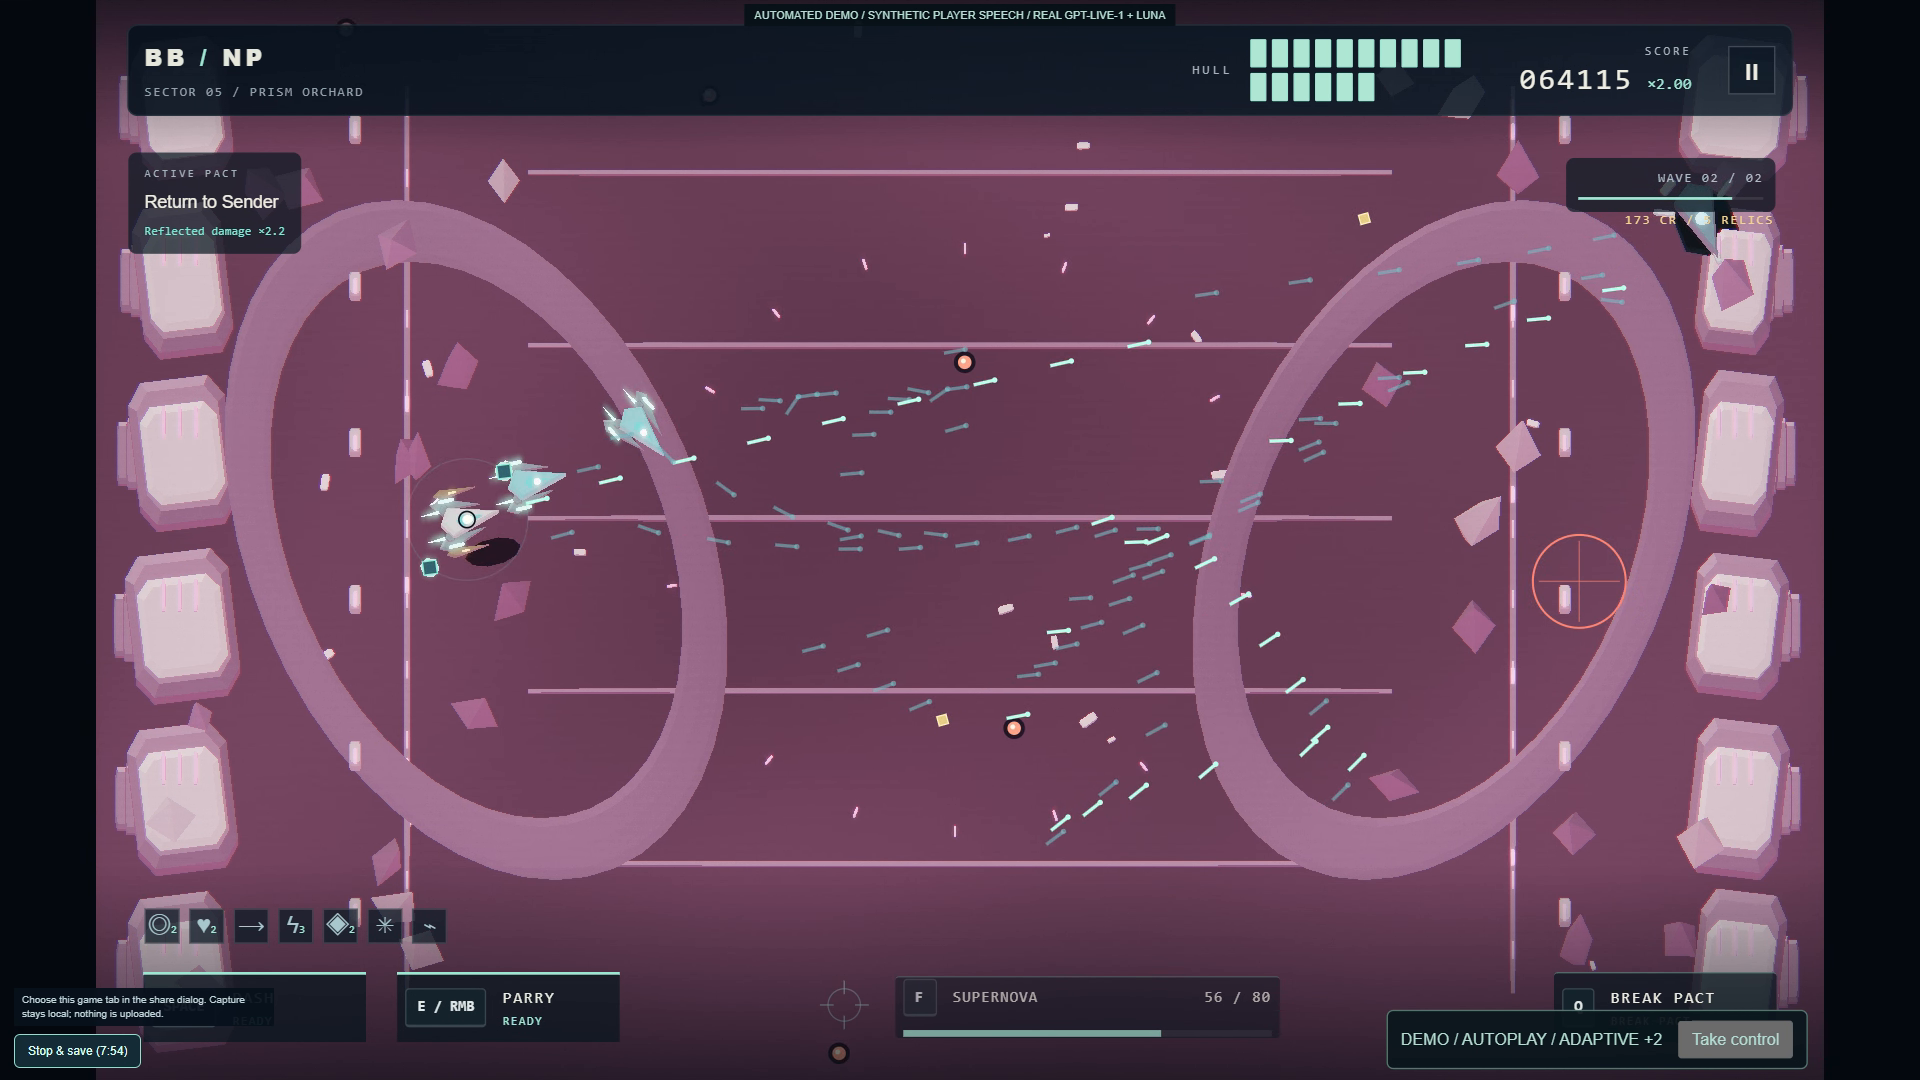
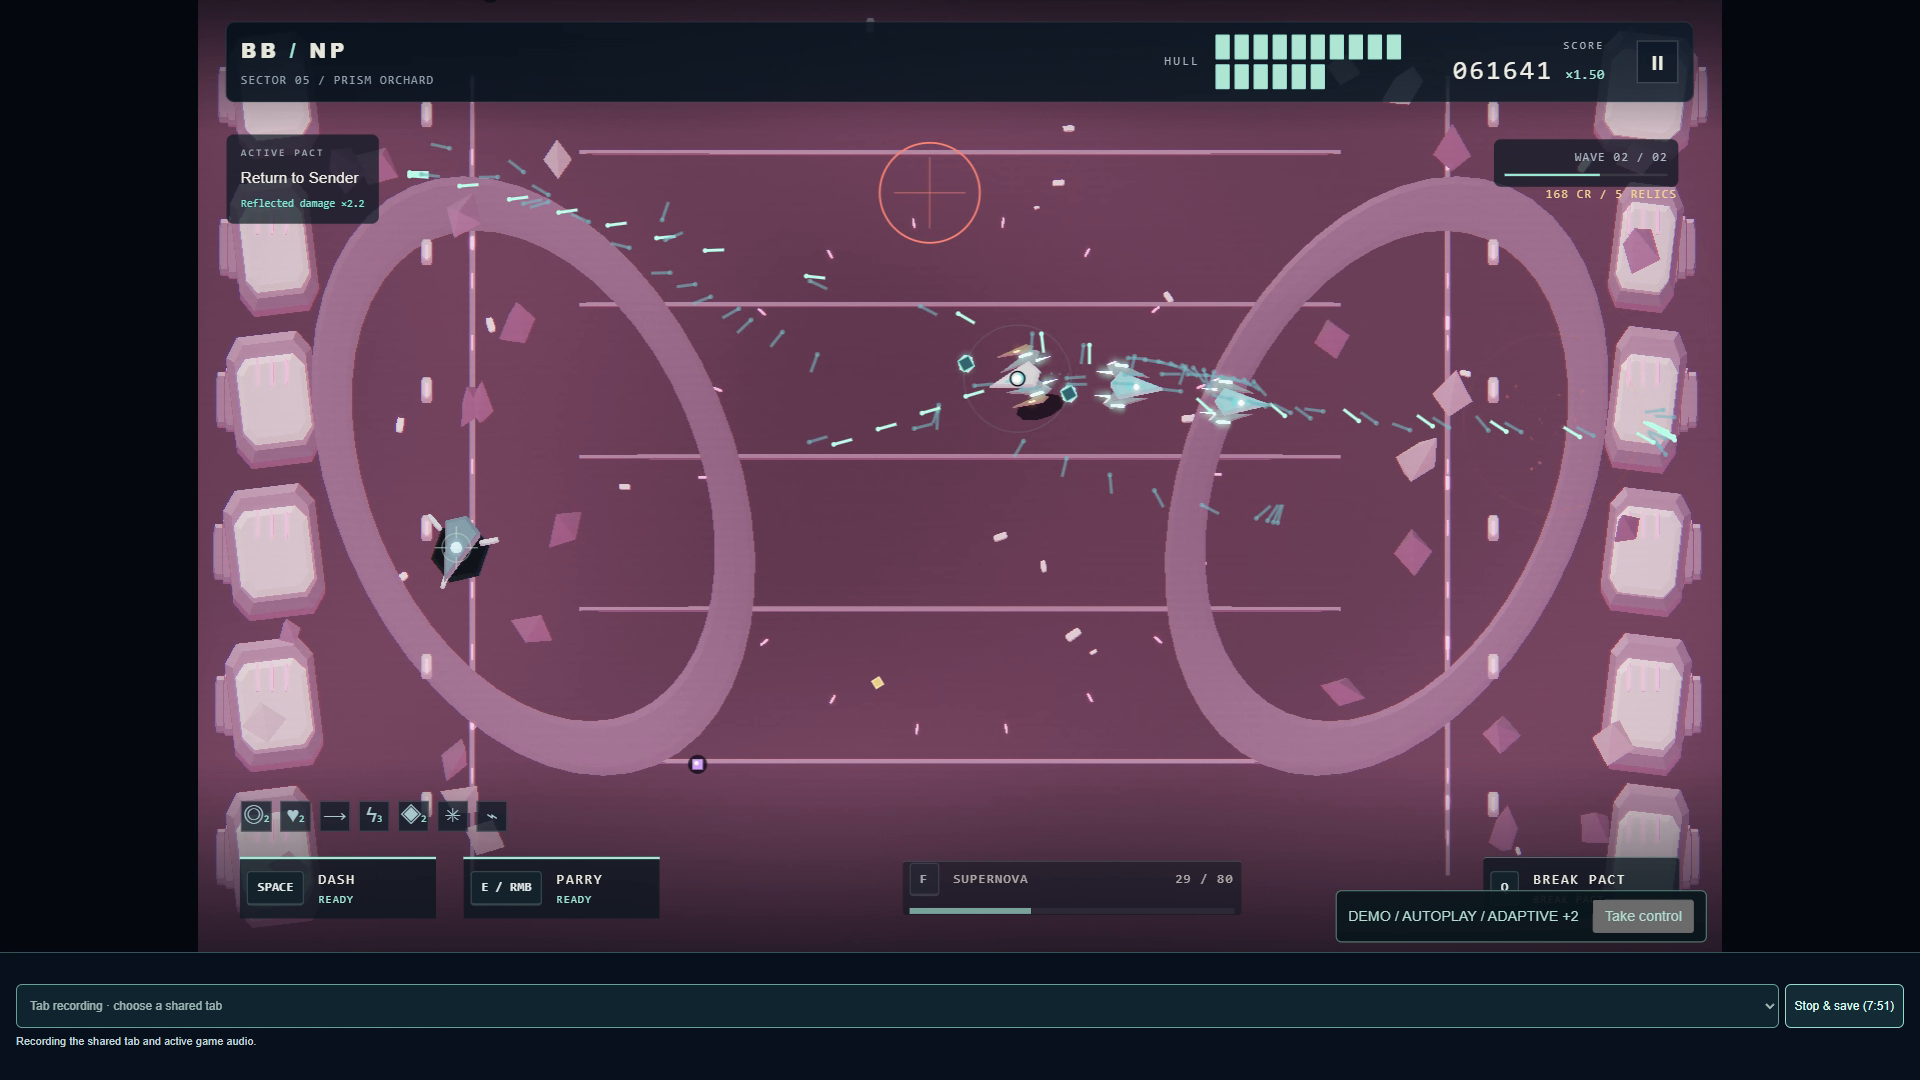
Publish latest English campaign film and refreshed screenshots

diff --git a/index.html b/index.html
@@ -5,16 +5,16 @@
   <meta name="viewport" content="width=device-width, initial-scale=1">
   <meta name="referrer" content="no-referrer">
   <meta http-equiv="Content-Security-Policy" content="default-src 'none'; media-src 'self' https://github.com https://release-assets.githubusercontent.com; style-src 'unsafe-inline'; img-src 'self'; base-uri 'none'; form-action 'none'">
-  <meta name="description" content="Negotiate with your enemy, sign a pact, and build a storm of firepower. Explore NEMESIS PACT through real PC gameplay, a 59-second film, and concept art.">
+  <meta name="description" content="Negotiate with your enemy, sign a pact, and build a storm of firepower. Explore NEMESIS PACT through the latest English campaign film, real PC gameplay, and concept art.">
   <meta property="og:title" content="NEMESIS PACT — Your words. Your build. Your battle.">
-  <meta property="og:description" content="A 3D bullet-hell game with live voice negotiation, stacking upgrades and an adaptive six-sector campaign. Real gameplay gallery and 59-second demo.">
+  <meta property="og:description" content="A 3D bullet-hell game with live voice negotiation, stacking upgrades and an adaptive six-sector campaign. Latest English campaign film and real gameplay gallery.">
   <meta property="og:type" content="website">
   <meta property="og:url" content="https://www.circle-hydrangea.net/nemesis-pact-live/">
   <meta property="og:image" content="https://www.circle-hydrangea.net/nemesis-pact-live/assets/boss-unwritten.webp">
   <meta property="og:image:alt" content="Actual PC gameplay: the upgraded ship confronts The Unwritten's concentric bullet rings.">
   <link rel="canonical" href="https://www.circle-hydrangea.net/nemesis-pact-live/">
   <link rel="icon" href="assets/favicon.svg" type="image/svg+xml">
-  <title>NEMESIS PACT — Gameplay, concept art &amp; 59-second demo</title>
+  <title>NEMESIS PACT — Latest English campaign demo</title>
   <style>
     :root{color-scheme:dark;--bg:#070e13;--panel:#101b23;--line:#2c424b;--ink:#f1f3e9;--muted:#b0c2cb;--mint:#a4e1cf;--gold:#e6c58b}
     *{box-sizing:border-box}
@@ -101,7 +101,7 @@
     <a class="brand" href="#">NEMESIS PACT <span class="gold">/</span></a>
     <nav aria-label="Page sections">
       <a href="#combat">PC gameplay</a>
-      <a href="#film">59s film</a>
+      <a href="#film">Latest film</a>
       <a href="#concepts">Concept art</a>
       <a href="https://nemesis-pact-live.vercel.app/">Play ↗</a>
     </nav>
@@ -109,14 +109,14 @@
   <main class="wrap">
     <div class="intro" id="overview">
       <div>
-        <p class="kicker">v1.3.0 / 3D bullet hell / AI-native negotiation</p>
+        <p class="kicker">Latest English campaign / 3D bullet hell / AI-native negotiation</p>
         <h1>Your words.<br>Your build.<br>Your battle.</h1>
       </div>
       <div>
         <p class="lead">Talk to your enemy. Bargain for a better chance. Then turn your signed pact and an arsenal of upgrades into a storm of firepower across six sectors.</p>
         <div class="actions">
           <a class="button primary" href="https://nemesis-pact-live.vercel.app/">Play in your browser <span aria-hidden="true">↗</span></a>
-          <a class="button" href="#film">Watch 59s demo <span aria-hidden="true">↓</span></a>
+          <a class="button" href="#film">Watch latest demo <span aria-hidden="true">↓</span></a>
         </div>
       </div>
     </div>
@@ -193,26 +193,26 @@
 
     <section id="film" aria-labelledby="film-title">
       <div class="section-head">
-        <div><p class="kicker">Submission film / 59 seconds / 1080p60</p><h2 id="film-title">See the pact become the battle.</h2></div>
+        <div><p class="kicker">Latest English campaign film / September 15</p><h2 id="film-title">See the pact become the battle.</h2></div>
         <p>Voice negotiation, an interruption, signed contracts, upgraded waves, adaptive reviews and the campaign's final victory.</p>
       </div>
       <div class="film">
         <video poster="assets/boss-unwritten.webp" controls playsinline preload="none" aria-label="59-second full-campaign demo with synthetic player speech, real GPT-Live-1 replies and English captions">
-          <source src="https://github.com/Yasei-no-otoko/nemesis-pact-live/releases/download/v1.3.0/NEMESIS-PACT-v1.3.0-59s-60fps-en-final.mp4" type="video/mp4">
-          <p>Your browser cannot play this video. <a href="https://github.com/Yasei-no-otoko/nemesis-pact-live/releases/download/v1.3.0/NEMESIS-PACT-v1.3.0-59s-60fps-en-final.mp4">Download the MP4</a>.</p>
+          <source src="https://github.com/Yasei-no-otoko/nemesis-pact-live/releases/download/media-refresh-20260915-english-demo/NEMESIS-PACT-latest-59s-60fps-en.mp4" type="video/mp4">
+          <p>Your browser cannot play this video. <a href="https://github.com/Yasei-no-otoko/nemesis-pact-live/releases/download/media-refresh-20260915-english-demo/NEMESIS-PACT-latest-59s-60fps-en.mp4">Download the MP4</a>.</p>
         </video>
         <div class="film-caption">
-          <p><strong>One complete production run: 6 voice pacts, 18 Luna reviews, 18 encounters and 6 bosses cleared.</strong> Recorded with demo autoplay and synthetic player speech sent to the real GPT-Live-1 API. The contracts, replies and combat are actual game behavior.</p>
+          <p><strong>The latest English full-campaign rerecord follows one complete production run.</strong> It uses demo autoplay and synthetic English player speech sent to the real GPT-Live-1 API. The contracts, replies and combat are actual untouched game behavior from the current deployed build.</p>
           <nav aria-label="Film downloads and human recording">
-            <a href="https://github.com/Yasei-no-otoko/nemesis-pact-live/releases/download/v1.3.0/NEMESIS-PACT-v1.3.0-59s-60fps-en-final.mp4" download>Download 1080p60 MP4 ↗</a>
-            <a href="https://github.com/Yasei-no-otoko/nemesis-pact-live/releases/download/v1.3.0/NEMESIS-PACT-v1.3.0-59s-60fps-en.srt" download>English captions ↗</a>
+            <a href="https://github.com/Yasei-no-otoko/nemesis-pact-live/releases/download/media-refresh-20260915-english-demo/NEMESIS-PACT-latest-59s-60fps-en.mp4" download>Download latest MP4 ↗</a>
+            <a href="https://github.com/Yasei-no-otoko/nemesis-pact-live/releases/download/media-refresh-20260915-english-demo/NEMESIS-PACT-latest-59s-60fps-en.srt" download>English captions ↗</a>
             <a href="iphone.html">Earlier human iPhone demo ↗</a>
           </nav>
           <details>
             <summary>Recording details &amp; verification</summary>
             <p>The demo uses a fixed autoplay input policy and original Microsoft Zira synthetic player speech. GPT-Live-1 receives that audio; GPT-5.6 Luna proposes contracts and reviews performance. The captured pressure progresses from 0 to +1 to +2. No invulnerability, changed health, accelerated game clock or forced victory is used.</p>
-            <p>The uncut run lasts about 10 minutes 27 seconds, including 6 minutes 11 seconds of combat. Thirteen chronological, normal-speed cuts in native DaVinci Resolve preserve the original speech, enemy replies and game audio. The export is 1920 × 1080 at fixed 60 fps: 3,540 frames over 59 seconds. The original capture averaged 58.65 delivered fps; conversion duplicates missing frames without inventing motion.</p>
-            <p>The film and PC gallery show automated Windows Edge / WebGPU gameplay. The separate earlier iPhone film records human play. <a href="https://github.com/Yasei-no-otoko/nemesis-pact-live/blob/ship/living-covenant/docs/ADAPTIVE-VALIDATION.md">Read measurements, costs and validation limits</a> or <a href="gallery-provenance.json">inspect gallery image provenance</a>.</p>
+            <p>The film uses 13 chronological, normal-speed cuts in native DaVinci Resolve. It preserves the recorded speech and game audio, with the complete game view above a separate English caption margin. <a href="https://github.com/Yasei-no-otoko/nemesis-pact-live/blob/ship/living-covenant/docs/MEDIA-REFRESH-20260915.md">Read the media refresh notes</a> or <a href="gallery-provenance.json">inspect image provenance</a>.</p>
+            <p>Verified export: 59 seconds of video, 1920 × 1080, fixed 60 fps, all 3,540 frames decoded, and original audio synchronized across every cut. The continuous source runs about 10 minutes 40 seconds and averaged 55.53 delivered frames per second; conversion duplicates missing frames without creating new motion.</p>
           </details>
         </div>
       </div>
@@ -231,10 +231,16 @@
           <figcaption><p class="kicker">GPT-Live-1 + GPT-5.6 Luna</p><h3>Your signature changes the fight.</h3><p>Here, the player asks for stronger reflections. The proposal offers ×2.2 reflected damage for 25% weaker normal shots. The displayed terms take effect only after Sign.</p></figcaption>
         </figure>
         <figure class="still">
-          <a href="assets/adaptive-review.webp" target="_blank" rel="noopener" aria-label="AI performance review: open full-size PC screenshot in a new tab">
-            <img src="assets/adaptive-review.webp" width="1920" height="1080" loading="lazy" decoding="async" alt="Actual GPT-5.6 Luna wave review: 14 eliminations, no hull lost, 17.47 seconds, followed by pressure 0 to +1, 108% enemy bullet speed and 92% wave arrival spacing.">
+          <a href="assets/flight-debrief.webp" target="_blank" rel="noopener" aria-label="Flight debrief performance review: open full-size PC screenshot in a new tab">
+            <img src="assets/flight-debrief.webp" width="1920" height="1080" loading="lazy" decoding="async" alt="Actual flight debrief screen summarizing the campaign run, signed pacts, combat outcomes and adaptive performance review.">
           </a>
-          <figcaption><p class="kicker">GPT-5.6 Luna / optional adaptation</p><h3>A visible reason for the next step.</h3><p>This wave ended with 14 eliminations and no hull lost. Luna recommended one pressure step: slightly faster bullets and closer wave arrivals in the next encounter.</p></figcaption>
+          <figcaption><p class="kicker">Flight debrief / GPT-5.6 Luna</p><h3>Review the run you just survived.</h3><p>The debrief records the campaign's signed terms, combat outcomes and adaptive review in one readable report after the final encounter.</p></figcaption>
+        </figure>
+        <figure class="still">
+          <a href="assets/adaptive-review.webp" target="_blank" rel="noopener" aria-label="AI performance review: open full-size PC screenshot in a new tab">
+            <img src="assets/adaptive-review.webp" width="1920" height="1080" loading="lazy" decoding="async" alt="Actual GPT-5.6 Luna adaptive performance review showing the recommendation for the next campaign encounter.">
+          </a>
+          <figcaption><p class="kicker">GPT-5.6 Luna / optional adaptation</p><h3>A visible reason for the next step.</h3><p>Luna reviews the recorded encounter and explains the pressure recommendation for the next campaign wave.</p></figcaption>
         </figure>
       </div>
     </section>
@@ -266,11 +272,11 @@
     </aside>
   </main>
   <footer class="wrap">
-    <span>NEMESIS PACT v1.3.0 · AI-Native Game Prototype</span>
+    <span>NEMESIS PACT · Latest English campaign demo</span>
     <nav aria-label="Project resources">
-      <a href="https://github.com/Yasei-no-otoko/nemesis-pact-live/releases/download/v1.3.0/NEMESIS-PACT-v1.3.0-source.zip">Source ZIP</a>
+      <a href="https://github.com/Yasei-no-otoko/nemesis-pact-live/releases/download/media-refresh-20260915-english-demo/NEMESIS-PACT-latest-source.zip">Source ZIP</a>
       <a href="https://github.com/Yasei-no-otoko/nemesis-pact-live">GitHub</a>
-      <a href="https://github.com/Yasei-no-otoko/nemesis-pact-live/blob/ship/living-covenant/docs/ADAPTIVE-VALIDATION.md">Validation</a>
+      <a href="https://github.com/Yasei-no-otoko/nemesis-pact-live/blob/ship/living-covenant/docs/MEDIA-REFRESH-20260915.md">Validation</a>
       <a href="#">Back to top ↑</a>
     </nav>
   </footer>
